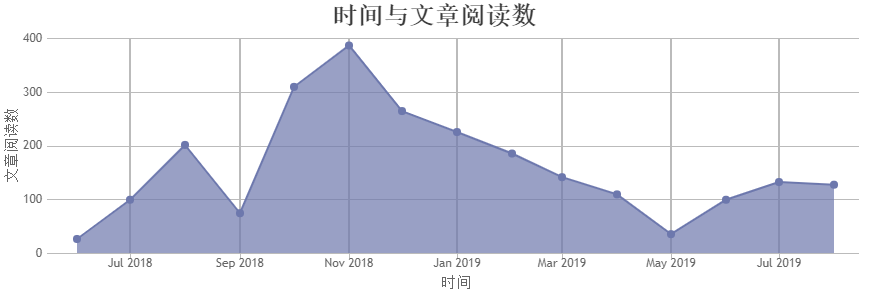
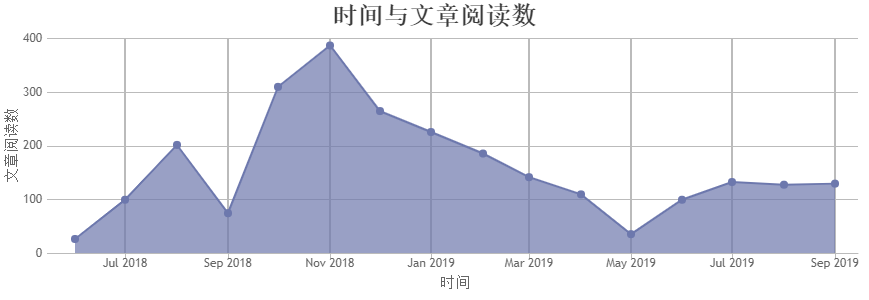
2019-9-1

diff --git a/index.html b/index.html
@@ -18,7 +18,6 @@
                 },
                 axisY: {
                     title: "文章阅读数",
-                    //  valueFormatString: "0.###s"
                 },
                 data: [{
                     type: "area",
@@ -40,6 +39,7 @@
                         { x: new Date(2019, 5), y: 100 },
                         { x: new Date(2019, 6), y: 133 },
                         { x: new Date(2019, 7), y: 128 },
+                        { x: new Date(2019, 8), y: 130 },
                     ]
                 }]
             });

diff --git a/README.md b/README.md
@@ -4,11 +4,14 @@
 共2427篇文章        
 
 
-
-## 2019-8
+## 2019-9
 
 *   []()
 *   []()
+
+## 2019-8 共130篇
+
+
 *   [一种基于DAG的加密货币框架](https://www.hecaijing.com/article/show/15558150950841867.html)
 *   [携程提前批凉面_笔经面经_牛客网](https://www.nowcoder.com/discuss/170360)
 *   [2017腾讯前端实习生二面+HR面总结 | 凡客](https://xmflyrk.com/2017/04/16/Tecent-Interview-Second/)
